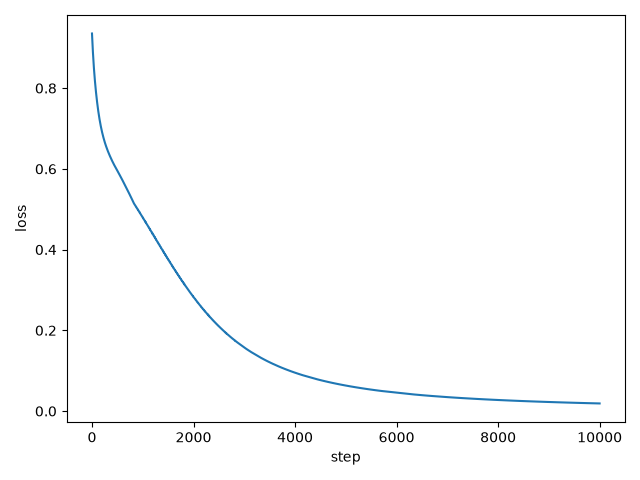
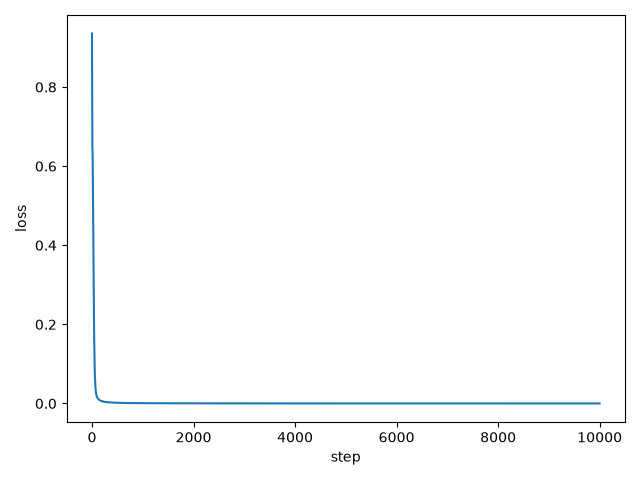
created momentum based man the speed up in this is real but I have see this oscillate before so need to experiment with other data too later

diff --git a/utils/optimizer/momentum.py b/utils/optimizer/momentum.py
@@ -1,0 +1,29 @@
+from typing import override
+
+import torch
+
+from utils.optimizer.base import Optimizer
+
+
+class Momentum(Optimizer):
+    def __init__(self, learning_rate: float, beta: float, params: list[torch.Tensor]) -> None:
+        self.learning_rate: float = learning_rate
+        self.beta: float = beta
+        self.params: list[torch.Tensor] = params
+        self.u: list[torch.Tensor] = [torch.zeros_like(i) for i in self.params]
+
+    @override
+    def step_zero_grad(self) -> None:
+        for i, param in enumerate(self.params):
+            prev_u = self.u[i]
+
+            assert param.grad is not None
+            grad = param.grad
+
+            u = self.beta * prev_u + grad
+
+            param -= self.learning_rate * u
+
+            self.u[i] = u
+            _ = grad.zero_()
+

diff --git a/xor_net/main.py b/xor_net/main.py
@@ -3,6 +3,7 @@ from pathlib import Path
 import torch
 
 from utils.optimizer.gradient_descent import GradientDescent
+from utils.optimizer.momentum import Momentum
 from xor_net.dataset import create_dataset
 from xor_net.model import XORNet
 from utils.plot import loss_plot
@@ -13,7 +14,7 @@ def main():
     x, y = create_dataset()
 
     model = XORNet(hidden_layer_neurons=4)
-    optimizer = GradientDescent(learning_rate = 0.1, params = model.parameters())
+    optimizer = Momentum(learning_rate = 0.1, params = model.parameters(), beta=0.9)
 
     loss_history = model.train(x, y, optimizer, epochs=10000, log_step = 1)
 
